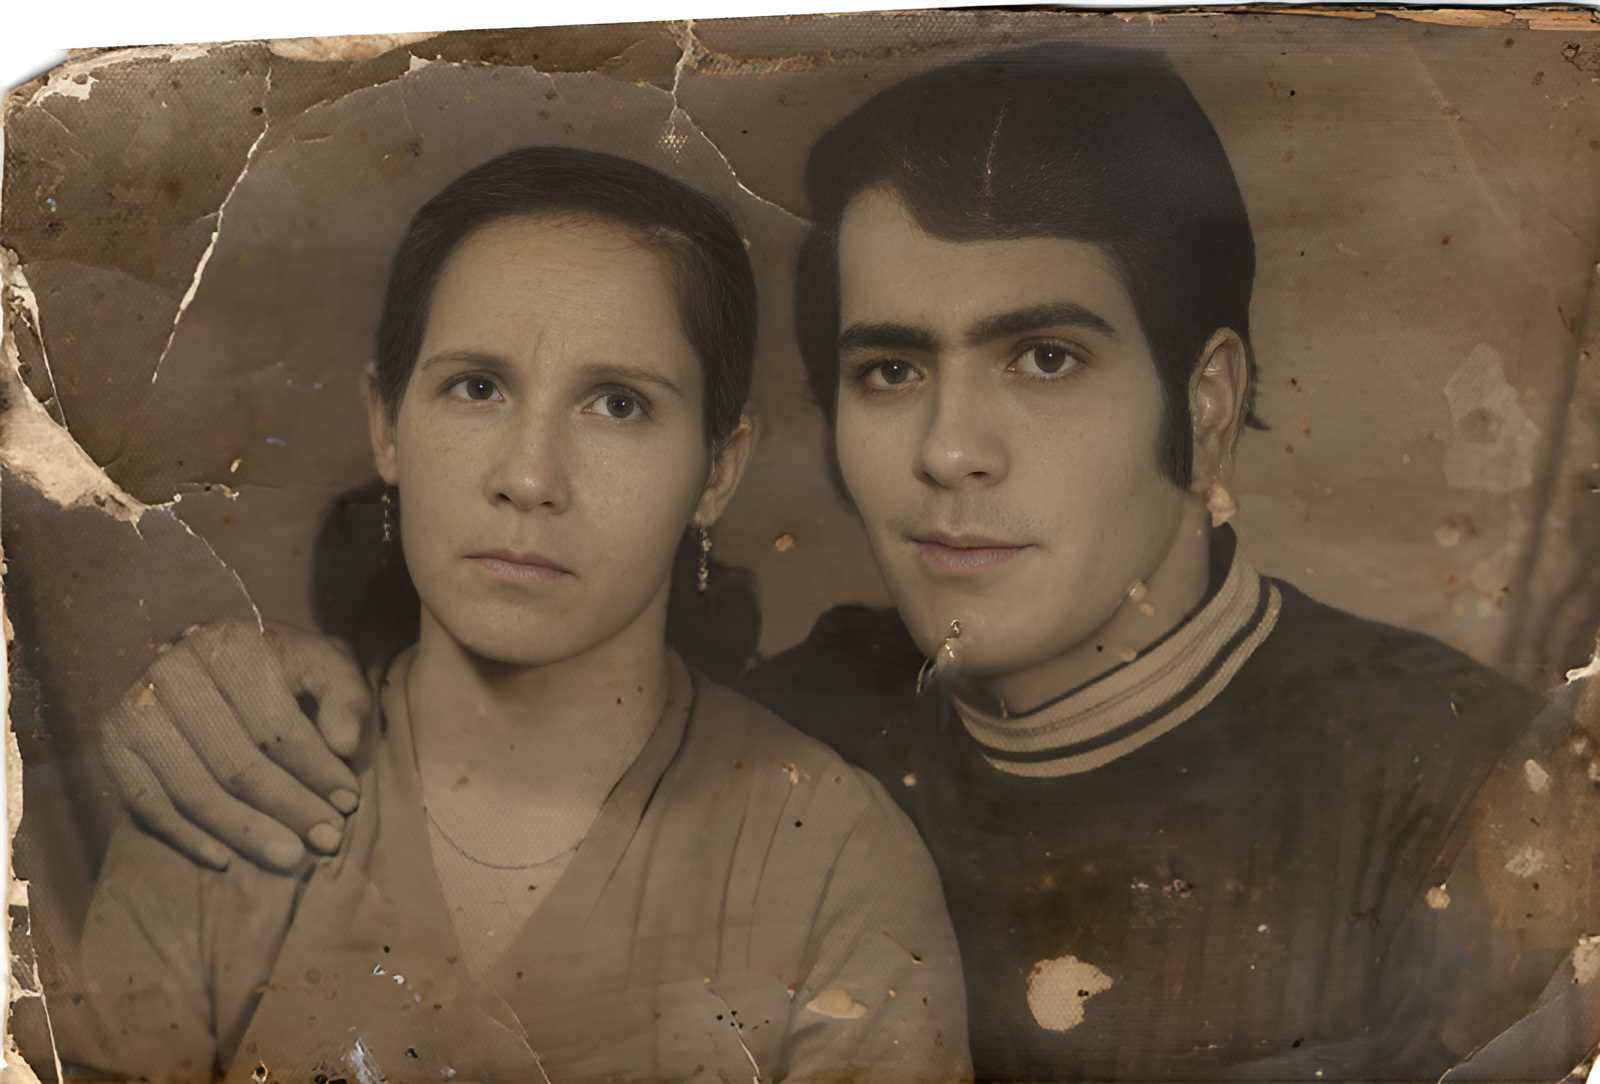
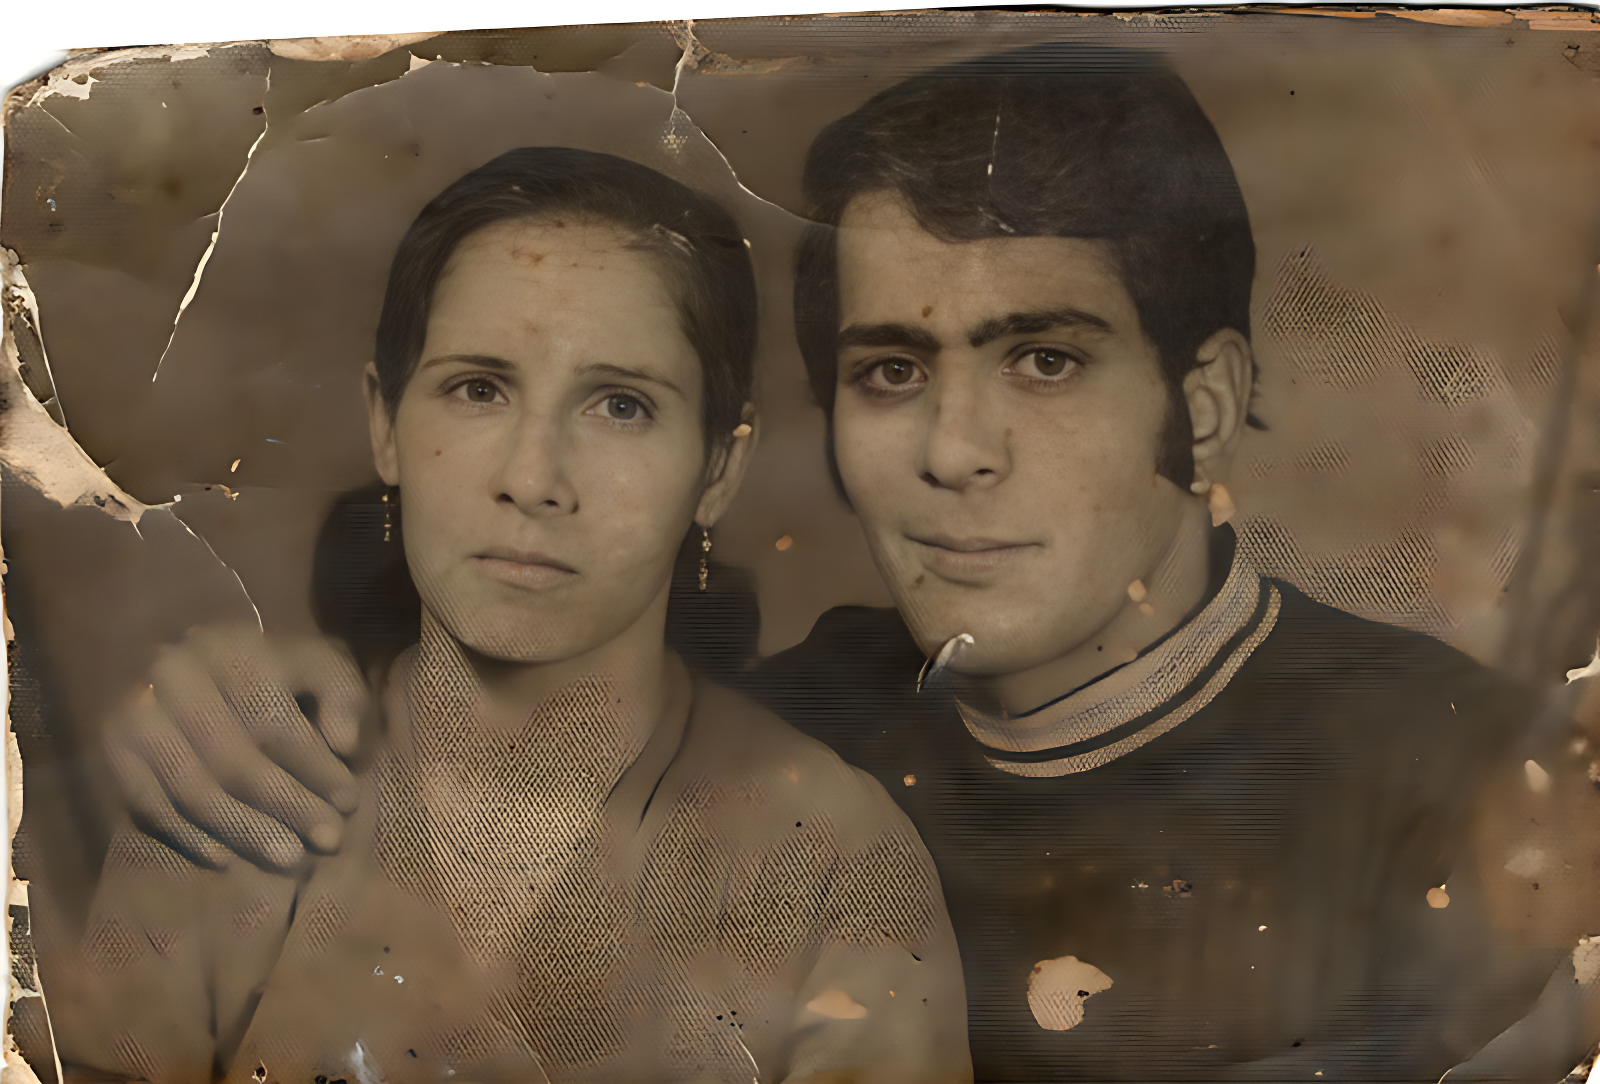
Updated model to more efficient and performant version

diff --git a/app/api/replicate/route.js b/app/api/replicate/route.js
@@ -4,17 +4,20 @@ export async function POST(req) {
   const replicate = new Replicate();
 
   try {
-    const { imageUrl } = await req.json(); // Extract the imageUrl from the request body
+    const { imgCurr } = await req.json(); // Extract the imageUrl from the request body
     
     // Log the specific parts of the request
     console.log("Request method:", req.method);
     console.log("Request headers:", req.headers);
-    console.log("Received POST request with imageUrl:", imageUrl);
+    console.log("Received POST request with imageUrl:", imgCurr);
 
     // Call the Replicate API with the image URL
+    const input = {
+      img: imgCurr,
+  };
     const output = await replicate.run(
-      "sczhou/codeformer:7de2ea26c616d5bf2245ad0d5e24f0ff9a6204578a5c876db53142edd9d2cd56",
-      { input: { image: imageUrl, codeformer_fidelity: 0.1 } } // Ensure this is a number
+      "tencentarc/gfpgan:0fbacf7afc6c144e5be9767cff80f25aff23e52b0708f17e20f9879b2f21516c",
+      { input } // Ensure this is a number
     );
 
     console.log("Replicate API output:", output);

diff --git a/app/page.js b/app/page.js
@@ -117,7 +117,7 @@ const processedImageUrl =
         },
       }}
     >
-      Sign In
+      Sign In/Up
     </Button>
   </SignInButton>
 </SignedOut>
@@ -154,9 +154,7 @@ const processedImageUrl =
                 paragraph
                 sx={{ color: "#666", mb: 4 }}
               >
-                Recover your lost moments into lasting art with our expert studio
-                photography services, where precision meets creativity to
-                deliver exceptional, high-quality images that speak volumes.
+                Rediscover your cherished moments with cutting-edge AI models designed to transform and elevate your photography, merging advanced technology with creativity to produce stunning, high-quality images that truly capture the essence of each moment.
               </Typography>
               <Button
                 variant="contained"

diff --git a/app/generate/page.js b/app/generate/page.js
@@ -89,7 +89,7 @@ export default function Home() {
         headers: {
           "Content-Type": "application/json",
         },
-        body: JSON.stringify({ imageUrl: publicImageUrl }),
+        body: JSON.stringify({ imgCurr: publicImageUrl }),
       });
 
       if (!replicateResponse.ok) {
@@ -187,7 +187,7 @@ export default function Home() {
         },
       }}
     >
-      Sign In
+      Sign In/Up
     </Button>
   </SignInButton>
 </SignedOut>

diff --git a/app/layout.js b/app/layout.js
@@ -4,8 +4,8 @@ import "./globals.css";
 const inter = Inter({ subsets: ["latin"] });
 
 export const metadata = {
-  title: "Create Next App",
-  description: "Generated by create next app",
+  title: "recovery ai",
+  description: "next generation image recovery",
 };
 
 export default function RootLayout({ children }) {

diff --git a/app/services/page.js b/app/services/page.js
@@ -116,7 +116,7 @@ export default function Services() {
         },
       }}
     >
-      Sign In
+      Sign In/Up
     </Button>
   </SignInButton>
 </SignedOut>

diff --git a/app/about/page.js b/app/about/page.js
@@ -85,7 +85,7 @@ export default function About() {
         },
       }}
     >
-      Sign In
+      Sign In/Up
     </Button>
   </SignInButton>
 </SignedOut>
